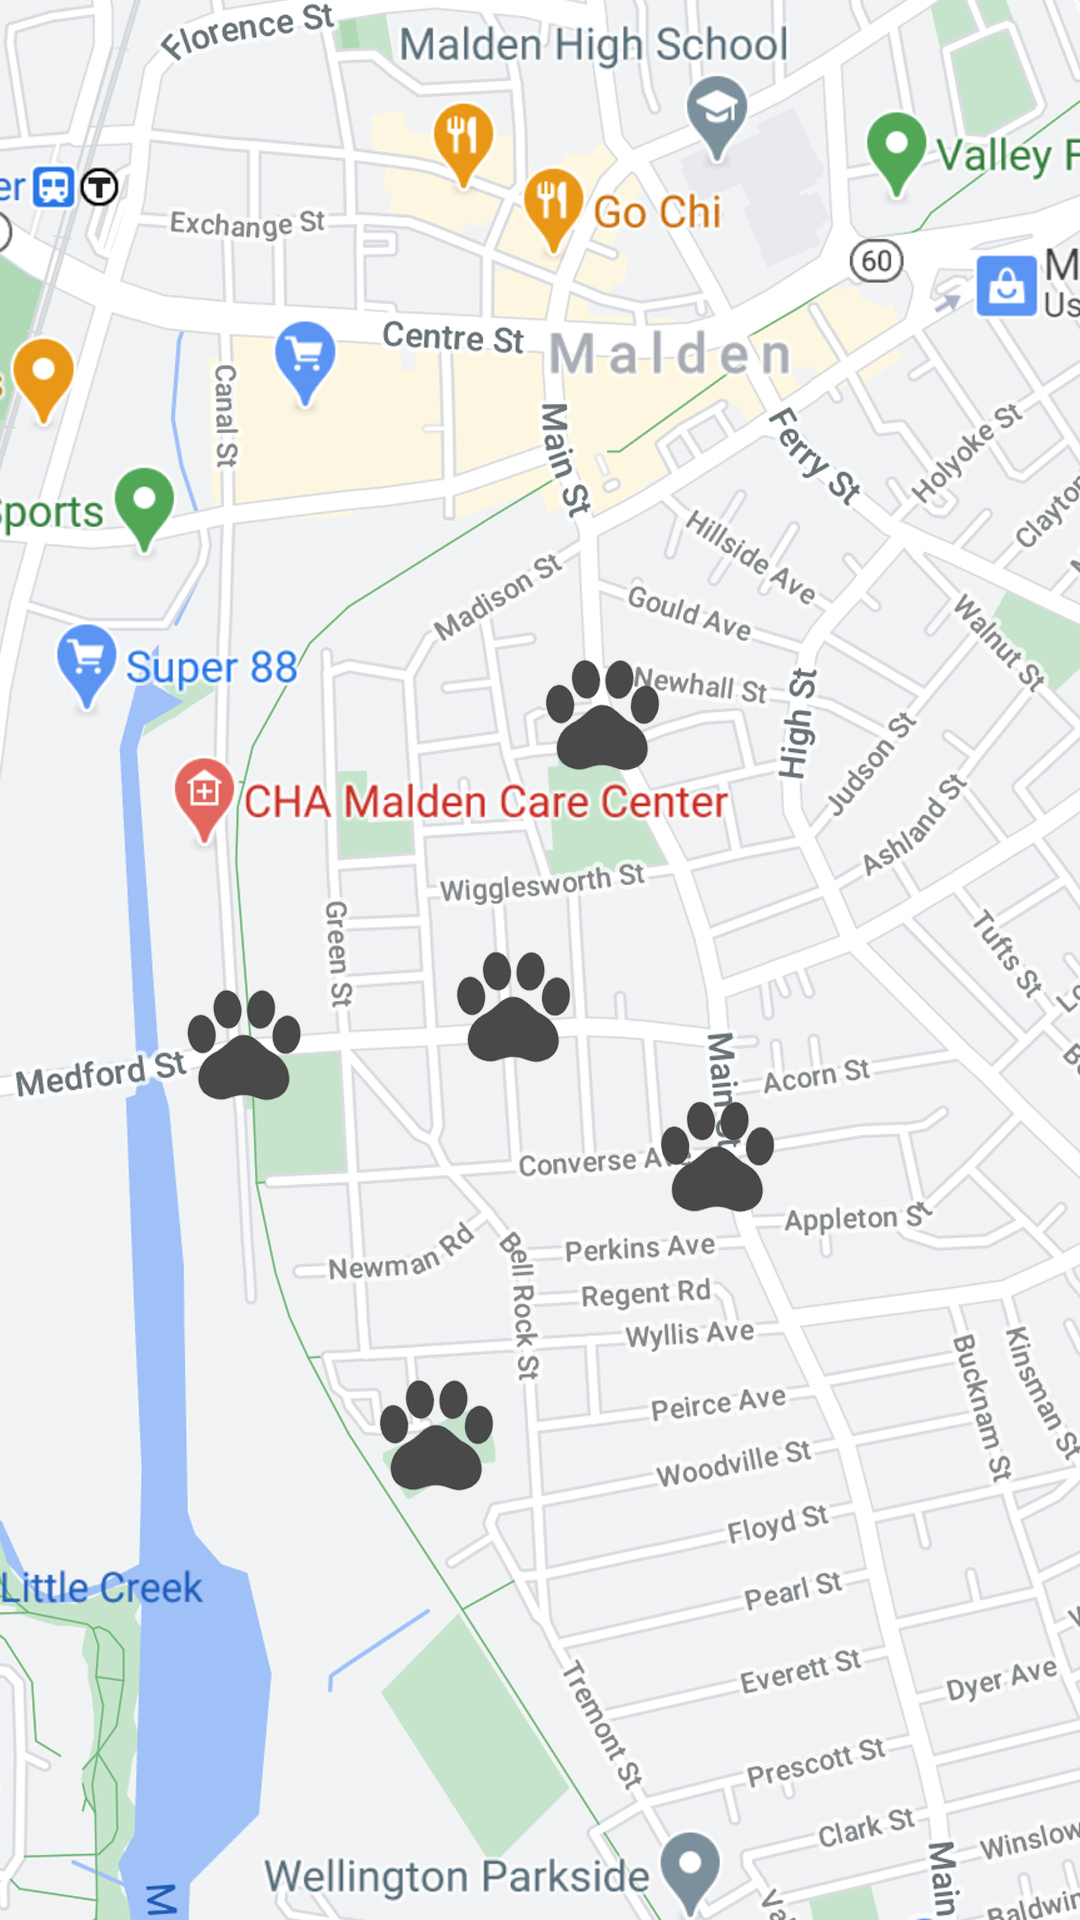
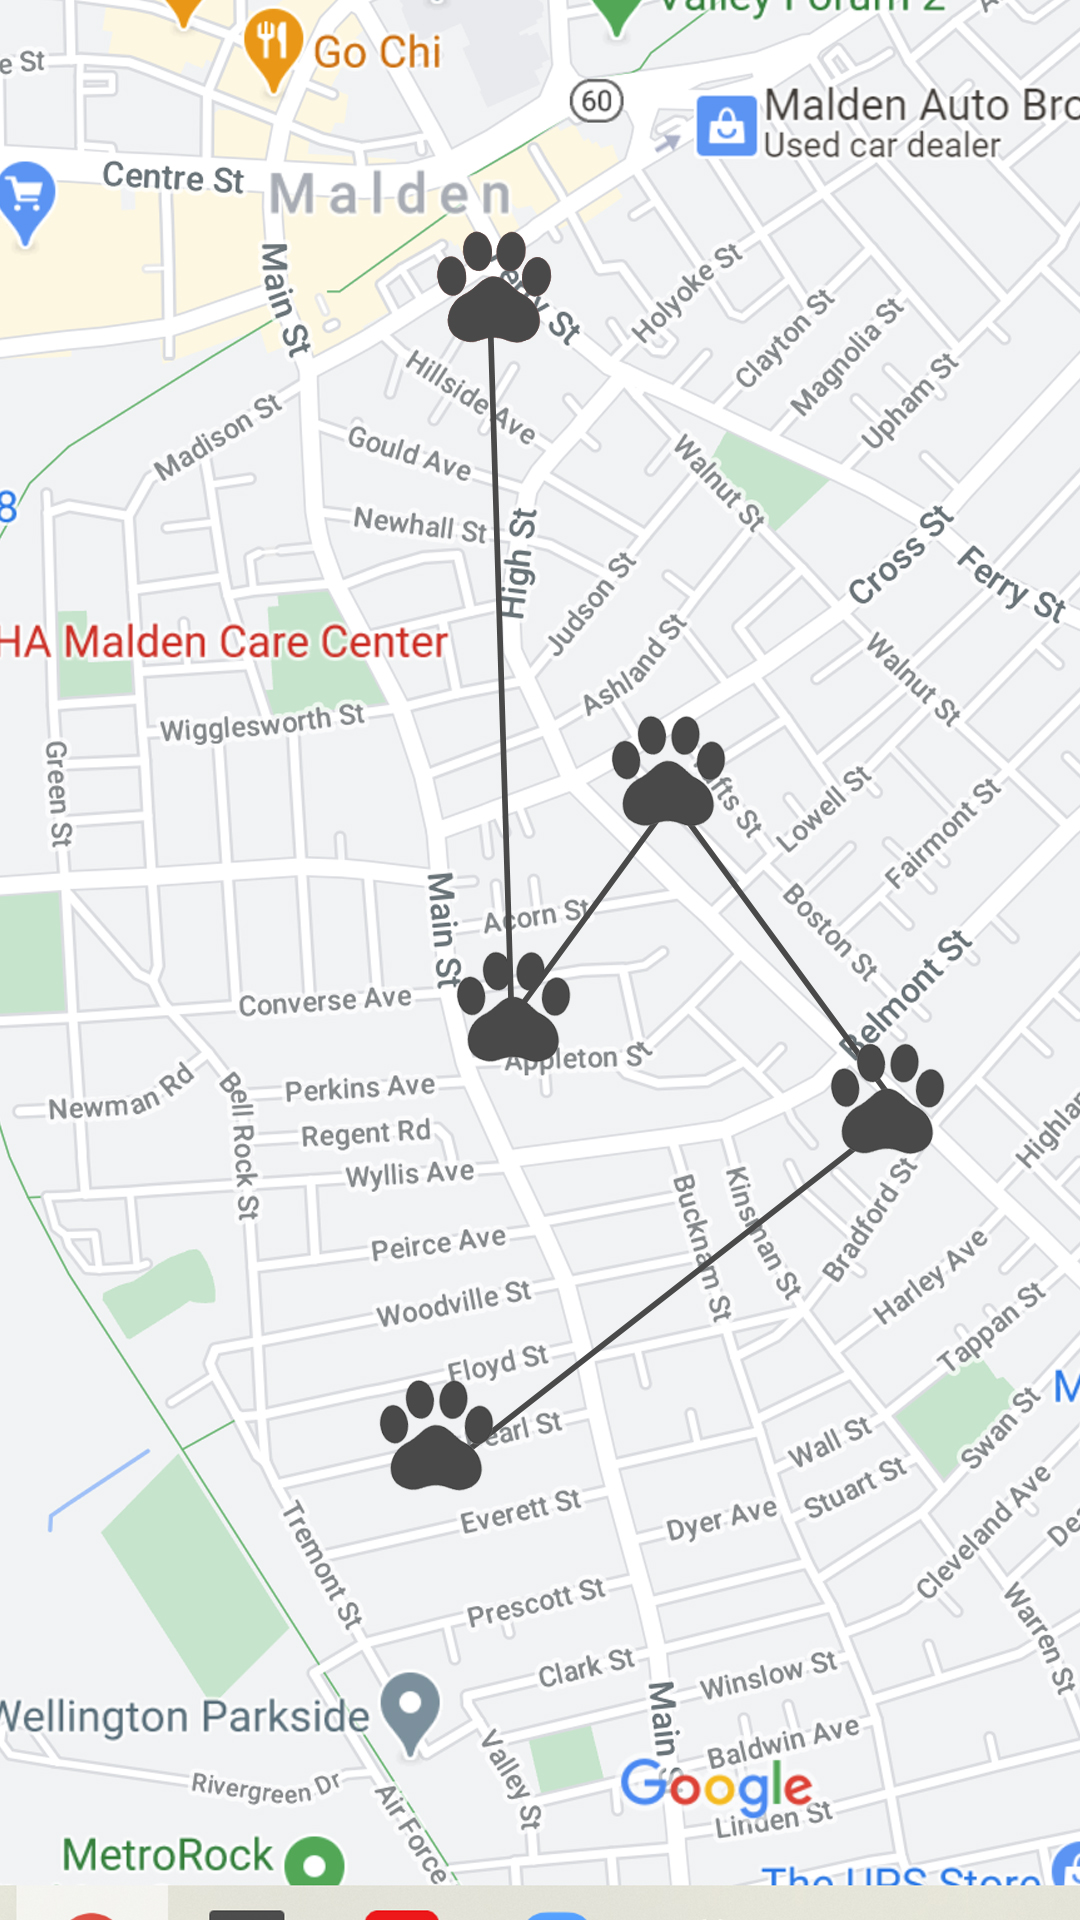
adjusted animal profile

diff --git a/li.peiyun/index.html b/li.peiyun/index.html
@@ -93,7 +93,7 @@
 
          <div class="modal" id="recent-profile-modal">
             <div class="modal-back" data-deactivate="#recent-profile-modal"></div>
-            <div class="modal-drawer left">
+            <div class="modal-drawer left overscroll">
                <div class="modal-head">Tracking Detail</div>
                <div class="modal-image">
                   <a href="#animal-profile-page"><img src="img/cat1.jpg"></a>
@@ -428,15 +428,24 @@
          <div class="tabgroup">
          <div class="tabs">
             <!-- .tab*4>{Link $} -->
-            <div class="tab active">History</div>
-            <div class="tab">Map</div>
+            <div class="tab active">Map</div>
+            <div class="tab">History</div>
             <div class="tab">Stats</div>
          </div>
          
          <div class="contents">
             <!-- .content*4>h2{Content $}+div>p*4>lorem50 -->
             <div class="content active">
-               <h2>Content 1</h2>
+               
+               <img src="img/icon/paw.png" class="pin-icon"> <div class="pin-text"> 100 Exchange Street</div>
+
+               
+               <div class="profilemap-container">
+                  <img src="img/profilemap.jpg">
+               </div>
+            </div>
+            <div class="content overscroll content-history">
+               <div class="content-title">Tracking Record</div>
                <div>
                   <p>Lorem ipsum, dolor sit amet consectetur adipisicing elit. Excepturi voluptatum minus quod, perferendis, dolores assumenda tempore, incidunt aliquam distinctio accusamus praesentium? Eum consequuntur asperiores beatae nulla magni natus repellendus a quis quisquam, quaerat ullam exercitationem magnam nemo necessitatibus nihil, dolores quo aliquam et autem minima veritatis ipsam fugit eaque! Unde.</p>
                   <p>Magnam autem fuga deleniti impedit dolore animi temporibus qui commodi aperiam ratione. Blanditiis iusto illum facere sed, repellendus, nesciunt sint rem quibusdam velit sapiente aliquid sit nemo quasi voluptate ea perspiciatis quia eligendi praesentium harum! Ipsam voluptatum recusandae cumque sit illo iste velit sequi porro ducimus, necessitatibus dolore, magnam fugit!</p>
@@ -444,19 +453,10 @@
                   <p>Vero provident error amet hic aspernatur sed delectus. Repudiandae quas, tempora atque quo dolore eos eius necessitatibus officiis quae numquam facilis minus iste? Perspiciatis ut expedita, quas veritatis laborum. Pariatur officiis nihil totam iusto doloribus ex quas expedita quidem exercitationem hic velit fugiat culpa et, architecto laudantium unde asperiores dolor.</p>
                </div>
             </div>
-            <div class="content">
-               <h2>Content 2</h2>
-               <div class="profilemap-container">
-                  <img src="img/profilemap.jpg">
-               </div>
-            </div>
-            <div class="content">
-               <h2>Content 3</h2>
+            
+            <div class="content overscroll">
                <div>
-                  <p>Lorem ipsum dolor, sit amet, consectetur adipisicing elit. Quis repellat, consequuntur voluptas, tempora dicta maiores facilis ea voluptates saepe. Ullam, veniam facilis nam fuga! Inventore ducimus qui, deleniti! Ipsa aliquid nesciunt ipsam inventore nobis architecto ratione illum, omnis sit rerum commodi enim quos, culpa dolore dolores mollitia, quidem consectetur quis!</p>
-                  <p>Quae sequi, ea nobis. Temporibus impedit ducimus optio deleniti tenetur itaque, aliquid nulla sed eum veritatis fugit, ipsa, sit deserunt totam animi a dicta doloremque hic. Inventore officiis ipsa ea similique asperiores unde vitae suscipit! Nihil necessitatibus, impedit! Vel ipsa quibusdam error officiis non a illo omnis perferendis consequuntur provident.</p>
-                  <p>Magnam quisquam alias tempora maxime quo, rem, assumenda dolorum ipsum excepturi architecto eveniet, beatae ipsam aliquid dolor ducimus repudiandae recusandae, officiis odit molestiae sint explicabo omnis? Alias quaerat, corporis vero eos aperiam rem architecto. Quae dolores iure quam eius omnis quod quis eum debitis, deserunt molestiae quia enim, inventore nisi.</p>
-                  <p>Cupiditate quibusdam, cumque explicabo fuga doloribus nam molestiae perferendis tempora? Reprehenderit repudiandae excepturi repellat non libero magnam, iste suscipit sapiente, quisquam omnis saepe iusto? Amet adipisci alias sapiente deleniti nesciunt veniam quaerat fugiat tenetur labore fugit delectus exercitationem ea ipsa blanditiis optio ratione iusto quae provident, vitae rem. Ex, illum!</p>
+                  <img src="img/stats.png">
                </div>
             </div>
             

diff --git a/li.peiyun/css/app.css b/li.peiyun/css/app.css
@@ -141,6 +141,15 @@ img {
    pointer-events:initial;
 }
 
+.content-history{
+  padding: 0.5em;
+}
+
+.content-title{
+  padding-top: 1em;
+  font-size: 1.2em;
+  font-weight: bold;
+}
 
 .profile-top{
   height: 15vh;
@@ -514,14 +523,27 @@ img {
    outline:0;
 }
 
-
-
+.pin-container{
+  align-items: center;
+}
+.pin-icon{
+  width: 2.5em;
+  float: left;
+  padding-top: 1em;
+}
+.pin-text{
+  margin:0;
+  padding-top: 2em;
+  padding-bottom: 0.5em;
+  display: inline-block;
+}
 
 /* MODAL TOAST */
 .modal-toast {
    position: absolute;
    width: 50%;
-   background-color: #e7ff3f;
+   background-color: var(--color-main-medium);
+   color: white;
    box-shadow: 1px 1px 5px rgba(0,0,0,0.15);
    border-radius: 0.2em;
    padding: 1em;
